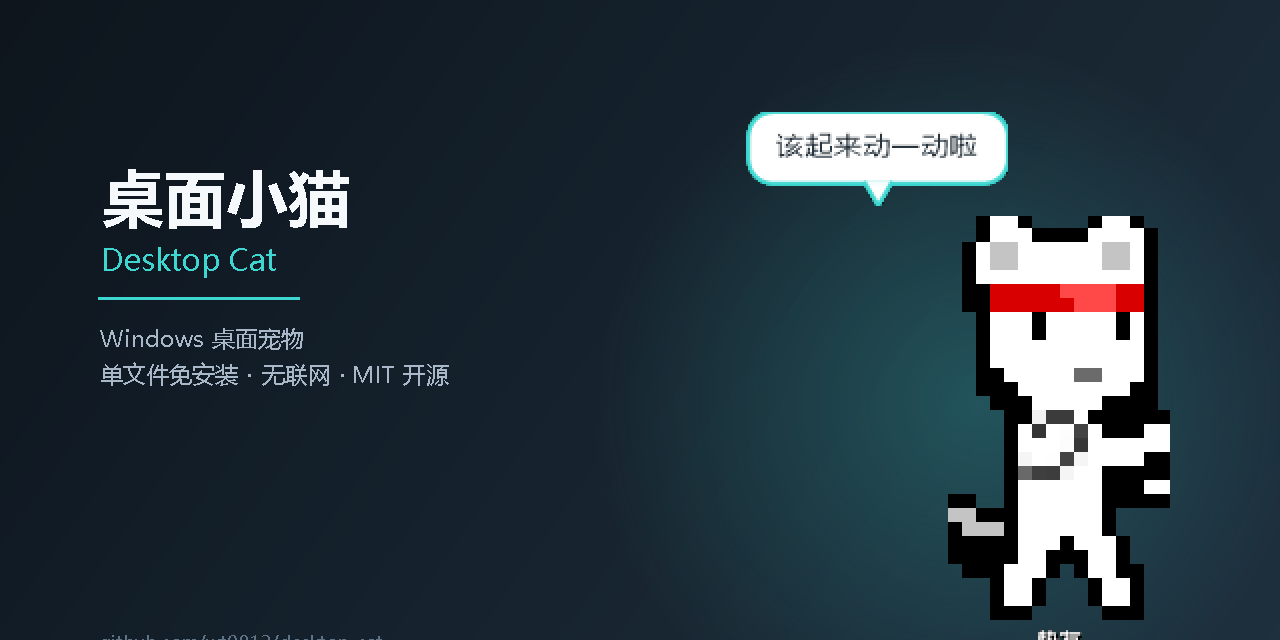
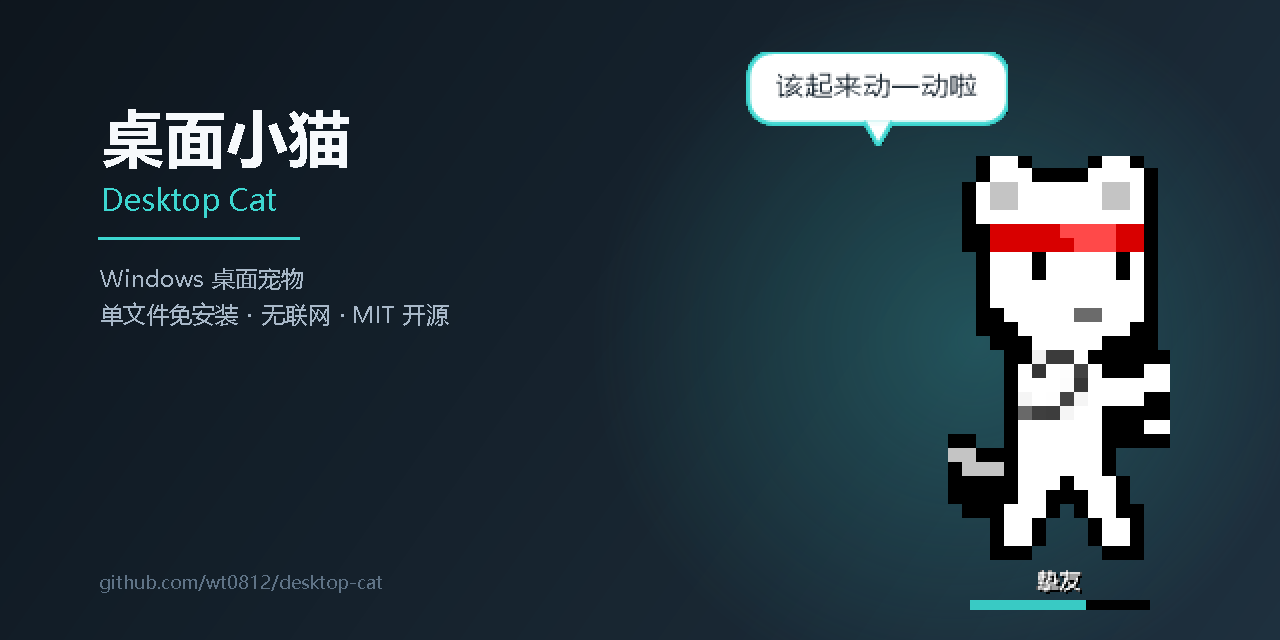
assets: re-crop the social preview from the top only
Cropping 60px off both ends looked even but cut the repository URL and the
credit line off the bottom. The hero is a fixed layout, not a photo, so the
crop has to come off the empty top instead: 120px there keeps the whole
bottom intact.

Changed region(s): [[0.5625, 0.0625, 0.9375, 1.0], [0.0625, 0.1562, 0.3438, 0.625], [0.0625, 0.9062, 0.2812, 0.9375]]

diff --git a/DECISIONS.md b/DECISIONS.md
@@ -512,6 +512,6 @@
 | **Release 正文的坑** | 正文走 `gh api --input <json>`，JSON 由 `RELEASE-NOTES-v1.1.md` 生成 —— 不走命令行传参，中文就不会被 Windows 代码页搞坏。tag `v1.1` 已经存在，所以 API 不会另造一个指向 main 头的 tag。 |
 | **验证** | 未登录的公网 API 查 `releases/latest` → `v1.1`；再把附件从 `releases/download/v1.1/DesktopCat-1.1.zip` **下载回来算哈希** → `93FAB87F…` 与本地发布包逐字节一致；三个 Release URL（latest / v1.1 / v1.0）全 200。 |
 | **顺带补齐** | `.gitattributes`（文本锁定 LF；图标、GIF、exe、zip 标为二进制）、`.github/ISSUE_TEMPLATE/bug_report.yml` 与 `feature_request.yml` —— 报障表单强制要「版本 / Windows 版本 / 大小档位」并请对方贴 `pet.log` 尾巴，没有这几项报障基本没法定位。v1.0 的 Release 本来就有附件（`DesktopCat-1.0.zip`，93,382 B），未动。 |
-| **只差网页上一下** | GitHub 的社交预览图（Settings → General → Social preview）只能网页上传，`gh` 没有这个接口。 |
+| **只差网页上一下** | GitHub 的社交预览图（Settings → General → Social preview）只能网页上传，`gh` 没有这个接口。已按上传要求把 1280×640 的图裁好放在 `docs/social-preview.png`（原图 1280×760 **只从顶部裁 120 px** —— 试过上下各切 60 px，底部那个仓库地址和「垫友」署名会被切掉）。 |
[1 lines of base64/hex data omitted]
 | **提交** | `00f7238`（规范件）与本次 D-37 记录，两个远程同步。 |
